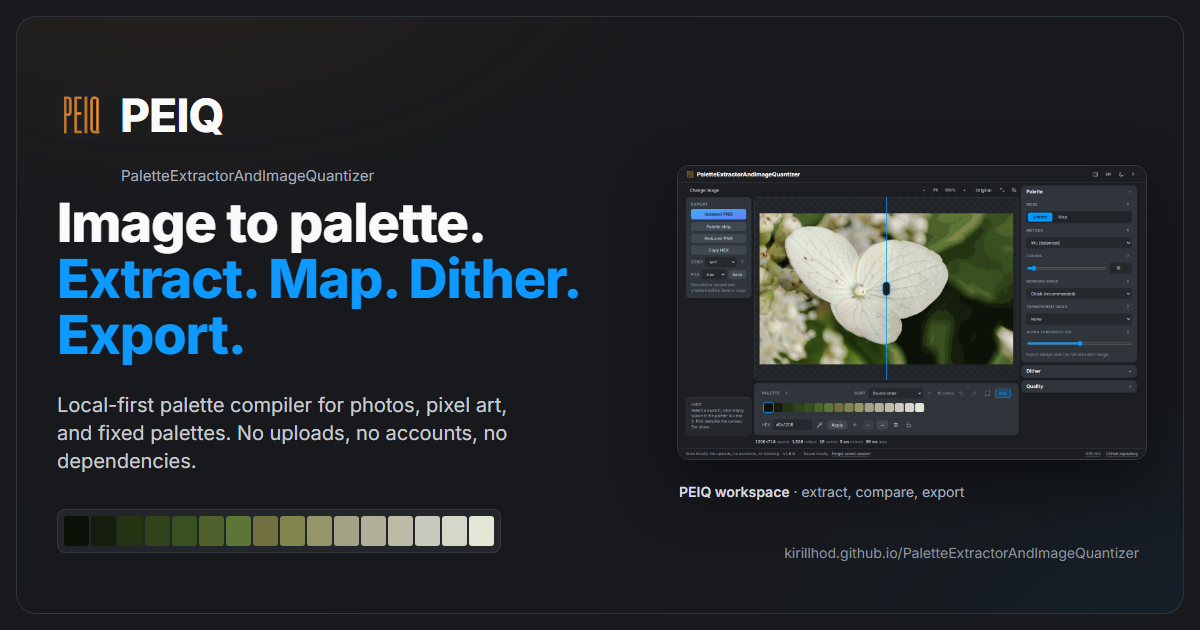
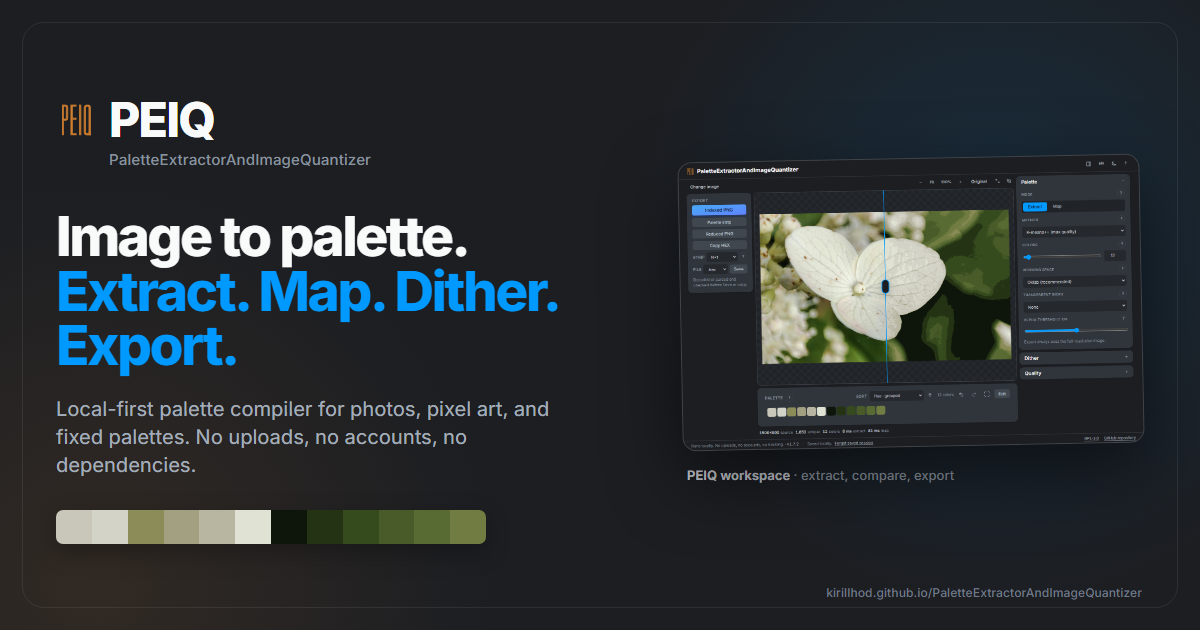
Release 1.7.2
Fix sRGB error diffusion so shadows and highlights keep their tone, use
Euclidean distances for ordered and blue-noise probabilities, and make 0%
dithering match None. Octree folds exact duplicates as a contract safety
net; Help explains the sRGB-only extractors and the Oklab lightness
trade-off. ALGORITHM_VERSION is 5.

Refresh the README captures and social card for 1.7.2, and record the
release checklist. URL v1, session v2, palette JSON v1, and export
filenames are unchanged.

diff --git a/js/core/version.js b/js/core/version.js
@@ -6,7 +6,7 @@
  */
 
 /** @type {string} */
-export const APP_VERSION = '1.7.1';
+export const APP_VERSION = '1.7.2';
 
 /**
  * Bump this when a decision-affecting rule changes (tie-break, ordering, hashing, or

diff --git a/IMPLEMENTATION_PLAN.md b/IMPLEMENTATION_PLAN.md
@@ -1,7 +1,7 @@
 # PaletteExtractorAndImageQuantizer — Implementation Plan
 
-**Plan version:** 1.7.1
-**Product version at completion:** 1.7.1
+**Plan version:** 1.7.2
+**Product version at completion:** 1.7.2
 **Status:** Approved for implementation
 **Date:** 2026-11-13 (split by topic 2026-11-16)
 **License:** GPL-3.0-only (owner decision, 2026-11-13)
@@ -51,12 +51,12 @@ plan for *what* to build.
 | Item | State |
 |---|---|
 | Research report | Evidence, frozen 2026-11-14; see its status header for what shipped differently |
-| Plan | This index plus `docs/spec/`; scope reset 2026-11-14; content current as of `v1.7.1` |
+| Plan | This index plus `docs/spec/`; scope reset 2026-11-14; content current as of `v1.7.2` |
 | Scaffold | `index.html`, CSS, `package.json`, `.gitignore`, dev server, CI |
 | Core | Color, histogram, five extractors, refinement, exact/LUT mapping, dithering, PNG index/encode/decode with compressed IDAT and stored fallback, palettes, perceptual ordering, picked-marker serialization |
 | UI | Stage + compact collapsible rail with a header toggle, left export column with validated clipboard copy, contextual tooltips, English/Russian localization, themes, extract/map modes, fixed palettes, dithering, indexed PNG, full-screen palette preview with layouts, captions, and click-to-copy values, in-page color picker, pointer drag palette reordering, copy button beside the editor HEX field, full-screen and hidden canvas with an aligned growing palette, 64x zoom, steady validated export panel, Help with extraction and mapping guides and collapsed references and credits, footer session clearing with confirmation, picked-color markers, workspace error map with numbered worst-pixel markers |
 | Tests | 244 passing (`node --test`) plus an 18-check headless browser smoke run by `npm test`, including golden hashes, dithering, sRGB and Oklab dither tone, ordered probability, edge stop, palettes, duplicate-color lookup, PNG native compression and stored fallback, browser smoke checks, stage states and hidden-canvas geometry, editor and preview clipboard copy, zoom limits, drag reordering, bounded hue bands, hue-perceptual ordering, perceptual ordering, sort-family mapping, preview backgrounds, dithered preview alpha, Wu grid bounds and occupancy, dither gradient spread, octree dedupe, preview sizing, automatic transparent index, Help placement, picked markers, clipboard helpers, formats, indexed PNG, alpha, metrics, URL state, session state, controls, i18n, messages, theme parity, rail state, view offsets, SEO, references, plan split integrity |
-| Version | `js/core/version.js`; `v1.7.1` tagged; M6.3–M6.7 complete; `ALGORITHM_VERSION` 5 (sRGB dither clamp, Euclidean ordered probability, and strength-0 mapping) |
+| Version | `js/core/version.js`; `v1.7.2` tagged; M6.3–M6.7 complete; `ALGORITHM_VERSION` 5 (sRGB dither clamp, Euclidean ordered probability, and strength-0 mapping) |
 | Next | No active milestone; M7 stays parked. Known issues and the proposed order live in [`product.md`](docs/spec/product.md) §20 |
 
 > **v1.0.0 scope reset (2026-11-14).** The refreshed landscape in

diff --git a/docs/history/releases.md b/docs/history/releases.md
@@ -122,3 +122,32 @@ section numbers below are its original ones.
       `ALGORITHM_VERSION` 4 stay compatible; 1.7.0 URLs and sessions load.
 - [x] `APP_VERSION` and `package.json` = `1.7.1`.
 - [x] Annotated tag `v1.7.1` on the version-bump commit.
+
+### v1.7.2
+
+**Changelog**
+
+- sRGB dithering no longer flattens shadows and highlights: the error clamp now spans
+  the full sRGB channel range, so a black/white palette keeps the gray ramp instead of
+  emitting 0% white at 64 and 100% at 192.
+- Ordered and blue-noise dithering use Euclidean distances for the two-candidate
+  probability, so flat tones no longer lean toward the nearest palette endpoint.
+- 0% dithering now matches None exactly, including the exact map for small unique-color
+  images; selecting a method at 0% no longer changes a few pixels.
+- Octree folds exact RGB duplicates as a contract safety net.
+- Help states that Popularity and Octree always use sRGB, that Oklab dithering preserves
+  perceptual lightness rather than linear-light brightness, and that per-pixel ΔE00 rises
+  by design when dithering is on.
+- `ALGORITHM_VERSION` becomes 5.
+
+- [x] `npm test` 244 passing plus 18 browser checks at 1280x900 and 360x800.
+- [x] Manual browser check at 1280 px and 360 px, English and Russian: the three new Help
+      texts, the space and dither tooltips, and no horizontal overflow. Chrome and Edge
+      paths are covered by the smoke suite; Firefox, Safari, and touch gestures remain
+      manual (L-8).
+- [x] Refreshed `assets/screenshots/workspace-dark.png`, `assets/screenshots/map-dither-dark.png`,
+      and `assets/og-image.png`; `assets/PROVENANCE.md` updated.
+- [x] URL `v=1`, session record v2, palette JSON v1, and export filenames stay compatible;
+      1.7.1 URLs and sessions load. `ALGORITHM_VERSION` is 5 because dither output changed.
+- [x] `APP_VERSION` and `package.json` = `1.7.2`.
+- [x] Annotated tag `v1.7.2` on the version-bump commit.

diff --git a/assets/PROVENANCE.md b/assets/PROVENANCE.md
@@ -39,7 +39,7 @@ button beside its field, the compact sort select with its direction button, the 
 preview button, and the Full screen and Hide canvas stage buttons; the map capture shows the
 Game Boy DMG palette with Floyd–Steinberg dithering and the transparent index at None. Both
 show the footer's confirmed session clear. No third-party artwork, screenshots, or stock
-images are included. Refreshed 2026-11-23 at 1440×900 from the current UI.
+images are included. Refreshed 2026-11-28 at 1440×900 from the current UI.
 
 Refresh both captures at 1440×900 in dark theme and English whenever the interface
 changes, keeping the same hydrangea composition. A stale capture is a documentation
@@ -49,10 +49,10 @@ defect; see `AGENTS.md` §7.
 
 `og-image.png` is the 1200×630 Open Graph and Twitter Card. It is a static HTML card
 using the self-hosted Inter font: the PEIQ mark, the product name, the page URL, a
-workspace capture of the current UI (Wu with 16 colors and source order), and the
-matching palette strip. Regenerate it from the current UI whenever the interface or
+workspace capture of the current UI (K-means with 12 colors and hue grouped order), and
+the matching palette strip. Regenerate it from the current UI whenever the interface or
 palette order changes; a stale card is a documentation defect. No third-party artwork,
-screenshots, or stock images are included. Refreshed 2026-11-18.
+screenshots, or stock images are included. Refreshed 2026-11-28.
 
 ## Blue noise
 

diff --git a/AGENTS.md b/AGENTS.md
@@ -321,7 +321,7 @@ updated; and the change is committed locally with a descriptive body (plan §16)
   [`docs/history/decisions.md`](docs/history/decisions.md); closed milestones in
   [`docs/history/milestones.md`](docs/history/milestones.md). Do not duplicate feature
   lists or counts here.
-- Released `v1.7.1`; M6.3-M6.7 are complete. Status and the test count live in plan §0.
+- Released `v1.7.2`; M6.3-M6.7 are complete. Status and the test count live in plan §0.
 - Next: no active milestone; M7 stays parked. Known issues, accepted limitations, and the
   proposed order live in [`docs/spec/product.md`](docs/spec/product.md) §20 — start there
   when asked what to work on next.
